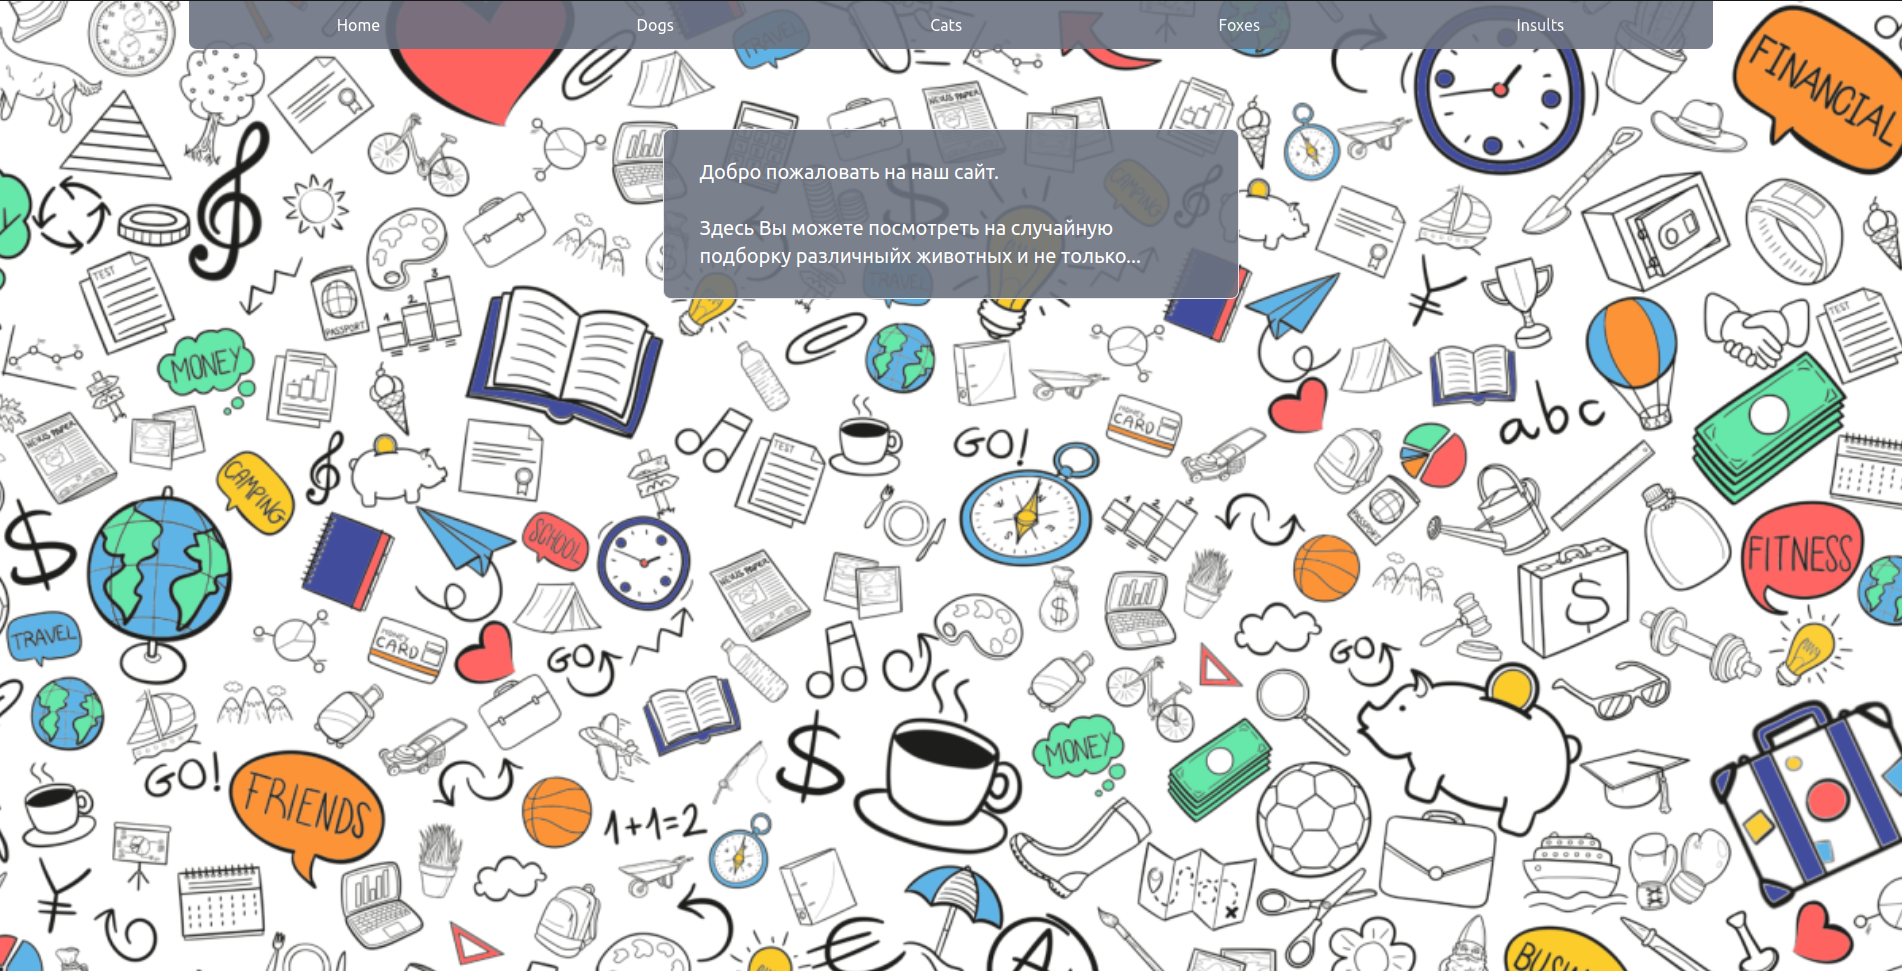
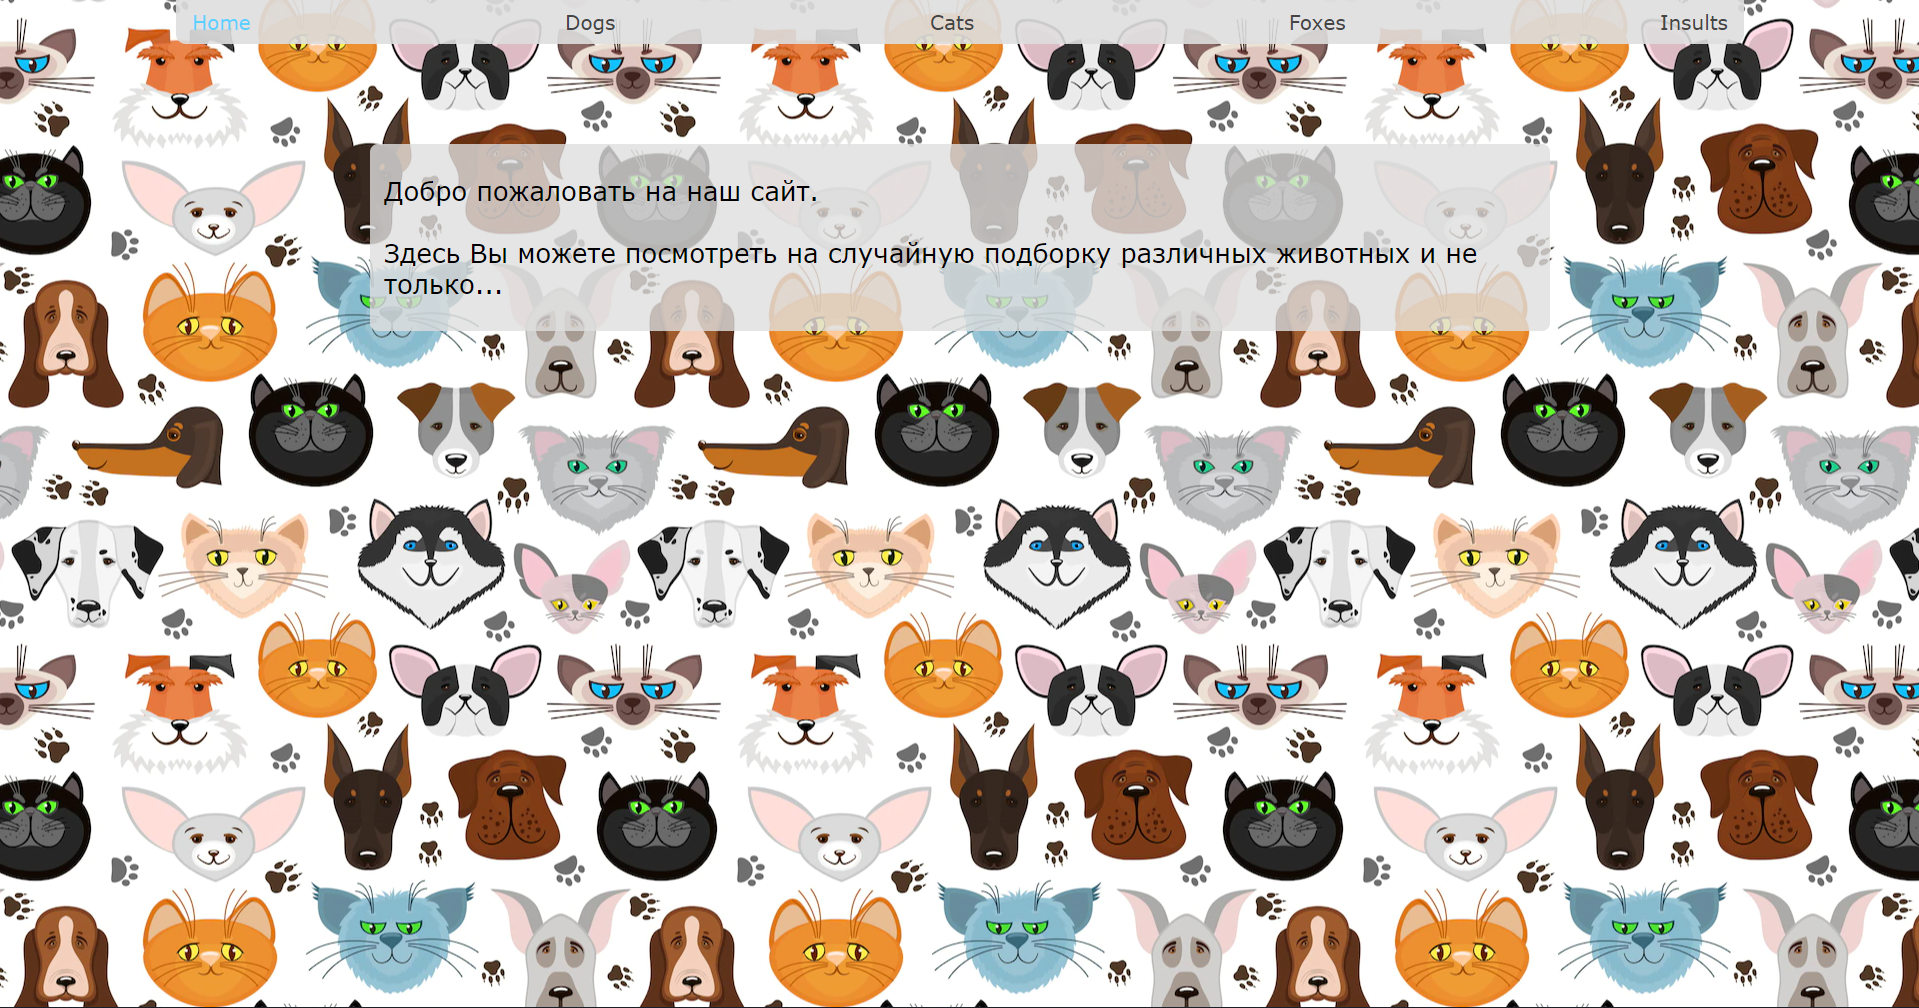
Обновил ридми

diff --git a/README.md b/README.md
@@ -16,10 +16,14 @@
 
 ![](./frontend/public/4.png)
 
+![](./frontend/public/5.png)
+
+![](./frontend/public/6.png)
+
 Чтобы узнать что на последней странице, перейдите на сайт [https://randomanimals1.com](https://randomanimals1.herokuapp.com) и узнаете сами :)
 
 
 
 Стек:
 
-<img src="https://raw.githubusercontent.com/devicons/devicon/master/icons/javascript/javascript-original.svg" width="50" alt="JS"/> <img src="https://raw.githubusercontent.com/devicons/devicon/master/icons/react/react-original-wordmark.svg" width="50" alt="react"/> <img src="https://raw.githubusercontent.com/devicons/devicon/master/icons/redux/redux-original.svg" width="50" alt="redux"/><img src="https://raw.githubusercontent.com/devicons/devicon/master/icons/nodejs/nodejs-original-wordmark.svg" width="50" alt="nodejs"/> <img src="https://tailwindcss.ru/_next/static/media/tailwindcss-mark.79614a5f61617ba49a0891494521226b.svg" width="50" alt="tailwind"/> <img src="https://narodev.com/wp-content/uploads/2019/01/fetch.jpeg" width="75" alt="tailwind"/>
+<img src="https://raw.githubusercontent.com/devicons/devicon/master/icons/javascript/javascript-original.svg" width="50" alt="JS"/> <img src="https://raw.githubusercontent.com/devicons/devicon/master/icons/react/react-original-wordmark.svg" width="50" alt="react"/>  <img src="https://sass-lang.com/assets/img/logos/logo-b6e1ef6e.svg" width="50" alt="sass"/> <img src="https://raw.githubusercontent.com/devicons/devicon/master/icons/redux/redux-original.svg" width="50" alt="redux"/> <img src="https://raw.githubusercontent.com/devicons/devicon/master/icons/nodejs/nodejs-original-wordmark.svg" width="50" alt="nodejs"/> <img src="https://tailwindcss.ru/_next/static/media/tailwindcss-mark.79614a5f61617ba49a0891494521226b.svg" width="50" alt="tailwind"/> <img src="https://narodev.com/wp-content/uploads/2019/01/fetch.jpeg" width="75" alt="tailwind"/>
